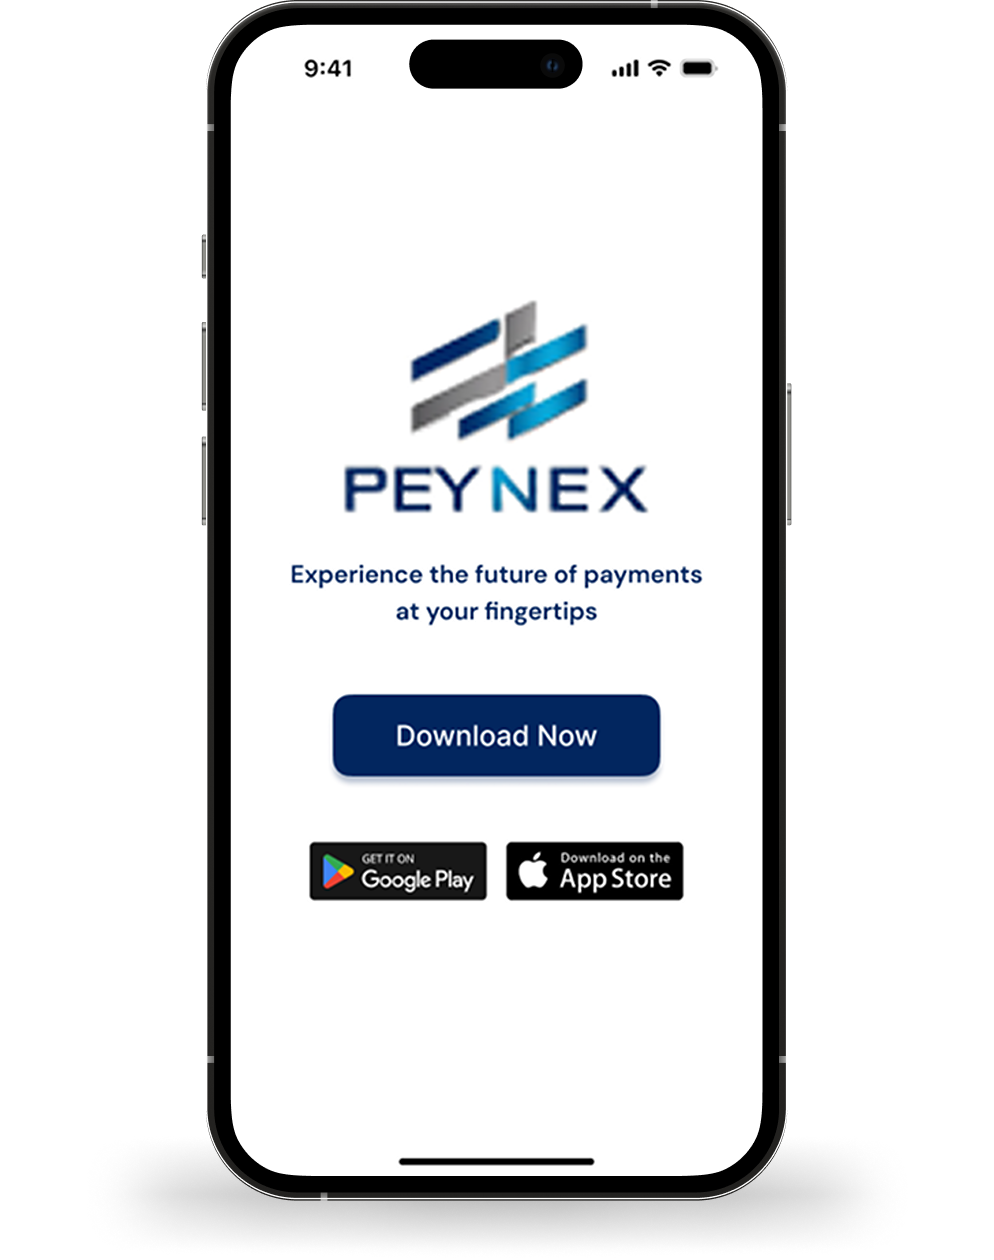
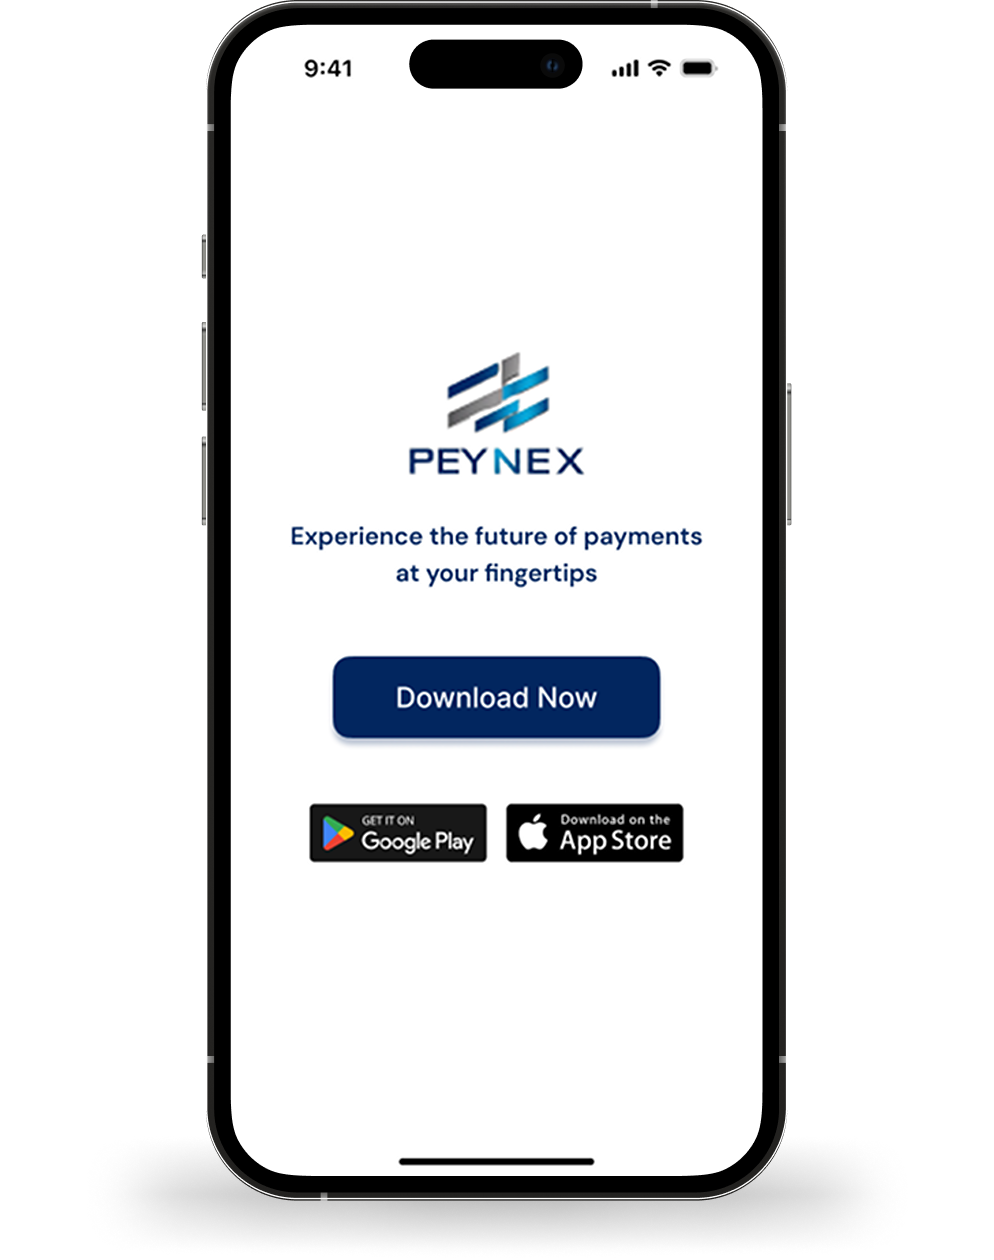
its finished

Changed region(s): [[0.2807, 0.2476, 0.7173, 0.7429]]

diff --git a/assets/css/style.css b/assets/css/style.css
@@ -2079,3 +2079,26 @@ p{
         font-size: 12px;
     }
 }
+/* Default styles for .img-fluid */
+
+  
+  /* Media Query for Tablets (e.g., screens smaller than 992px) */
+  @media (max-width: 991.98px) {
+    .img-fluid {
+      margin-left: 5px; /* Reduce margin for tablets */
+    }
+  }
+  
+  /* Media Query for Mobile Devices (e.g., screens smaller than 768px) */
+  @media (max-width: 767.98px) {
+    .img-fluid {
+      margin-right: 40px; /* Further reduce margin for mobile devices */
+    }
+  }
+  
+  /* Media Query for Small Mobile Devices (e.g., screens smaller than 576px) */
+  @media (max-width: 575.98px) {
+    .img-fluid {
+      margin-left: 55px; /* Minimal margin for very small screens */
+    }
+  }

diff --git a/assets/bootstrap/bootstrap.min.css b/assets/bootstrap/bootstrap.min.css
@@ -427,10 +427,14 @@ mark {
 .blockquote-footer::before {
   content: "\2014\00A0";
 }
+/* Default styles for .img-fluid */
 .img-fluid {
+  margin-left: 25px; /* Default margin for larger screens */
   max-width: 100%;
   height: auto;
 }
+
+
 .img-thumbnail {
   padding: 0.25rem;
   background-color: #fff;
